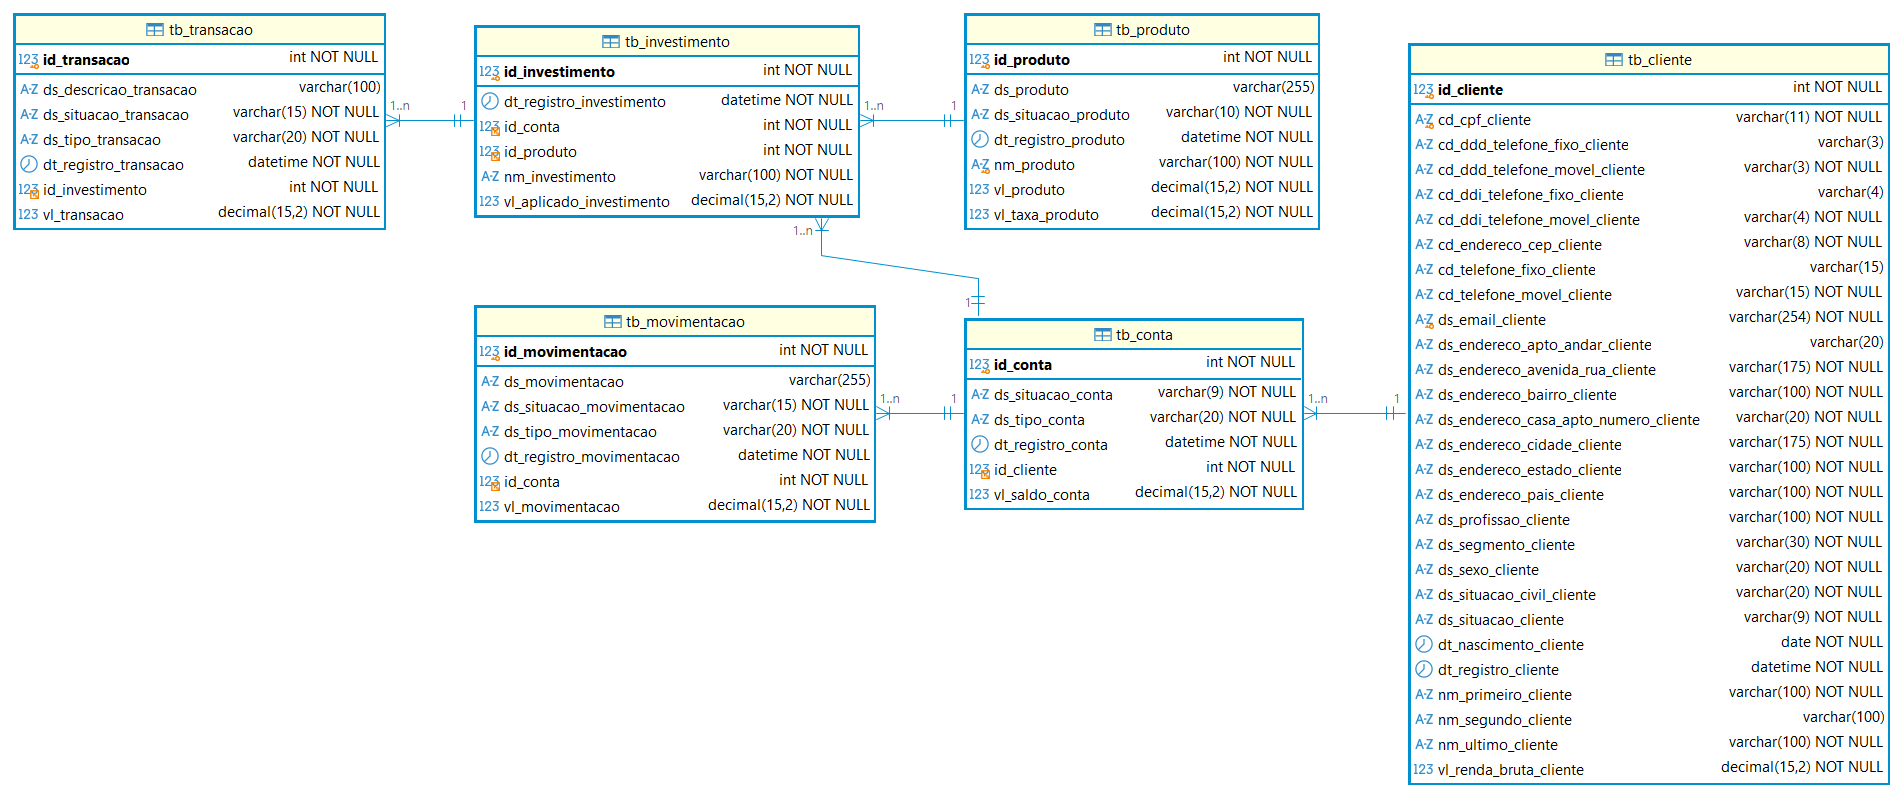
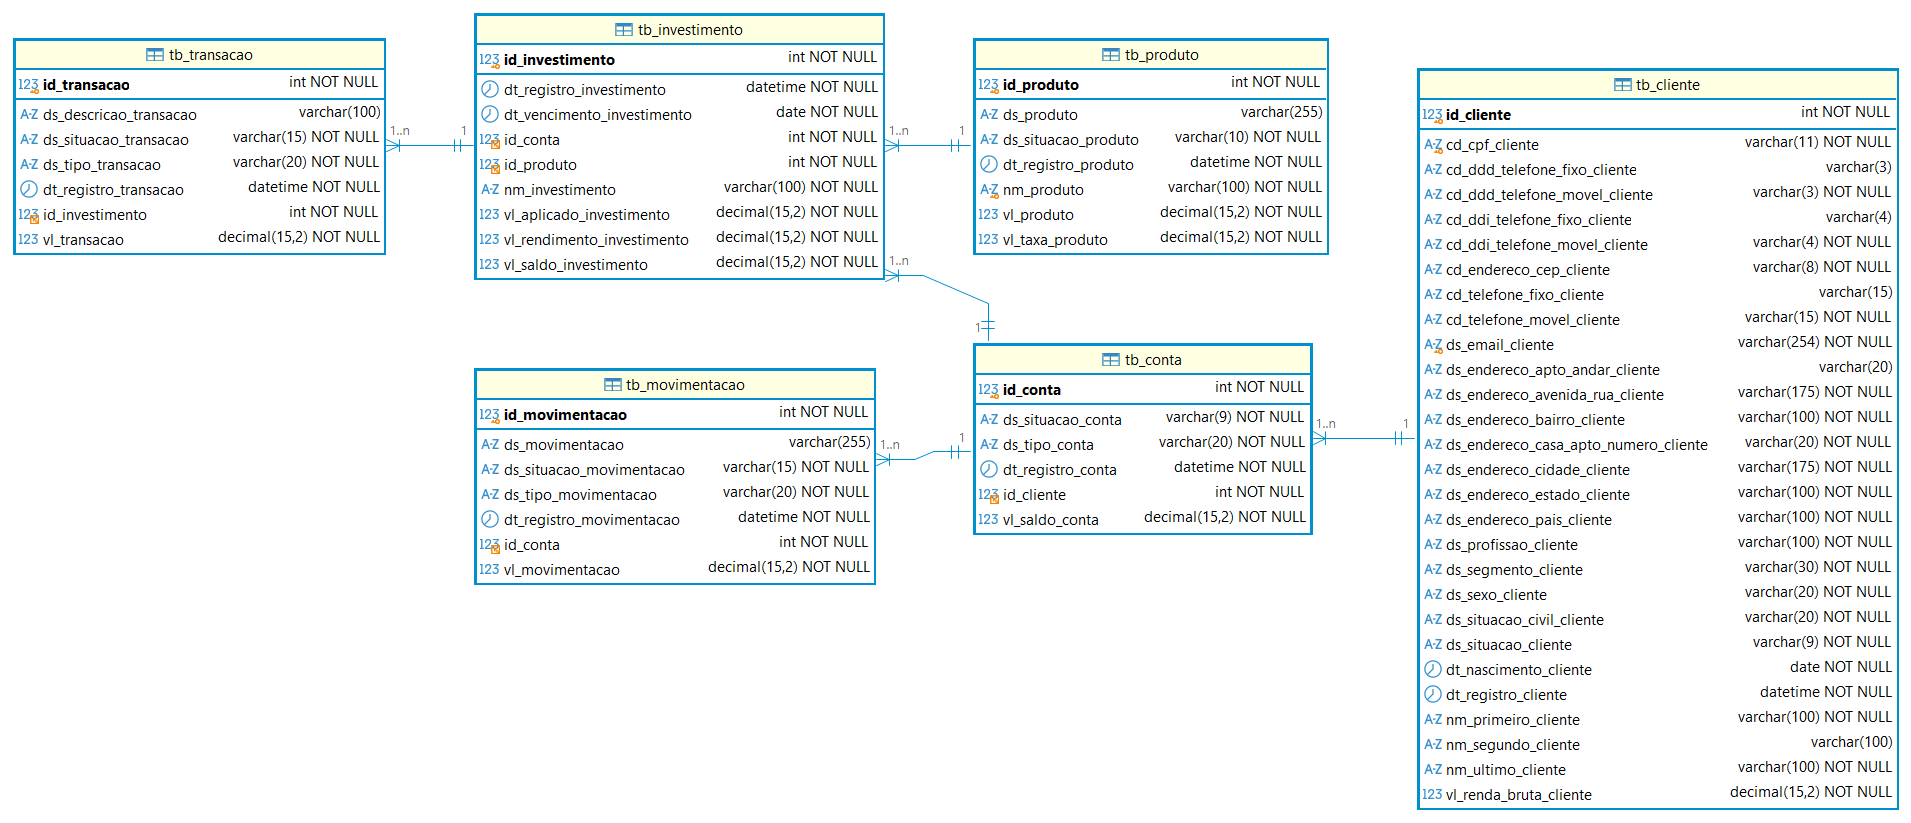
Atualização da QuantumFinance - Parte 2
Atualizando os Scritps de BD da QuantumFinance

Changed region(s): [[0.0, 0.0, 1.0, 0.9925]]

diff --git a/QuantumFinance - Parte 2.md b/QuantumFinance - Parte 2.md
@@ -167,9 +167,9 @@ CREATE TABLE tb_investimento(
     nm_investimento VARCHAR(100) NOT NULL,
     vl_aplicado_investimento DECIMAL(15,2) NOT NULL,
     vl_rendimento_investimento DECIMAL(15,2) NOT NULL,
+    vl_saldo_investimento DECIMAL(15,2) NOT NULL,
     dt_registro_investimento DATETIME NOT NULL DEFAULT CURRENT_TIMESTAMP,
     dt_vencimento_investimento DATE NOT NULL,
-    vl_saldo_investimento DECIMAL(15,2) NOT NULL,
     id_produto INT NOT NULL,
     id_conta INT NOT NULL,
   
@@ -181,6 +181,9 @@ CREATE TABLE tb_investimento(
     ),
     CONSTRAINT chk_saldo_investimento CHECK(
         vl_saldo_investimento >= 0
+    ),
+    CONSTRAINT chk_vencimento_investimento CHECK(
+        dt_vencimento_investimento >= DATE(dt_registro_investimento)
     ),
   
     CONSTRAINT pk_id_investimento PRIMARY KEY (id_investimento),
